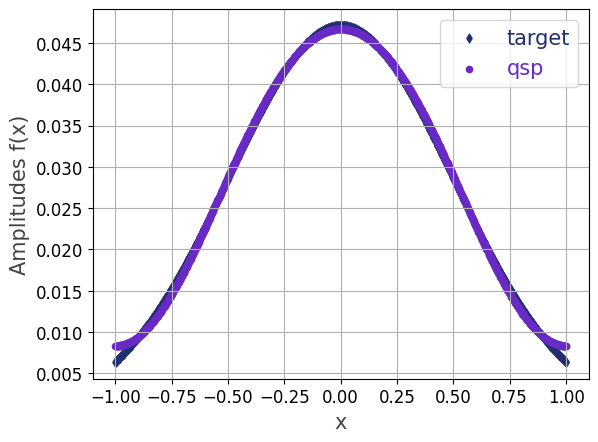
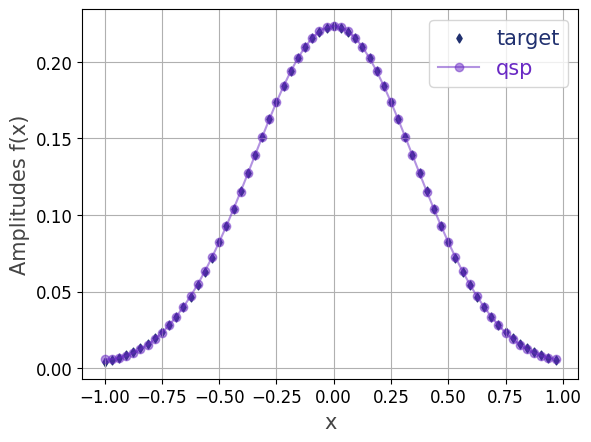
Improved example, test, documentation for fourier series loader

diff --git a/src/qrisp/algorithms/gqsp/fourier_series_loader.py b/src/qrisp/algorithms/gqsp/fourier_series_loader.py
@@ -81,8 +81,8 @@ def fourier_series_loader(qarg, signal=None, frequencies=None, k=1, mode="standa
     mode : str, optional
         Available are 
         
-        - ``"standard"``: frequencies are caluclated from ``target_array`` via FFT,
-        - ``"mirror"``: frequencies are caluclated from mirror padded ``target_array`` via FFT to mitigate artifacts at the boundaries.
+        - ``"standard"``: frequencies are caluclated from ``signal`` via FFT,
+        - ``"mirror"``: frequencies are caluclated from mirror padded ``signal`` via FFT to mitigate artifacts at the boundaries.
 
     Returns
     -------
@@ -97,26 +97,26 @@ def fourier_series_loader(qarg, signal=None, frequencies=None, k=1, mode="standa
 
     ::
 
+        import os
+        os.environ["QRISP_SIMULATOR_FLOAT_THRESH"] = "1e-10"
+
         import jax.numpy as jnp
         import matplotlib.pyplot as plt
         import numpy as np
         from qrisp import *
         from qrisp.gqsp import fourier_series_loader
 
-
         # Gaussian 
-        def f(x):
-            return jnp.exp(-2 * x ** 2)
-
+        def f(x, alpha):
+            return jnp.exp(-alpha * x ** 2)
 
         # Converts the function to be executed within a repeat-until-success (RUS) procedure.
-        @RUS(static_argnums=1)
-        def prepare_gaussian(n, k):
-
-            # Evaluate f at equidistant sample points
-            delta = 2.0 ** (-2 * k)
-            x_val = jnp.arange(-1, 1 ,delta)
-            y_val = f(x_val)
+        @RUS(static_argnames=["k"])
+        def prepare_gaussian(n, alpha, k):
+            # Use 32 sampling points to evaluate f
+            N_samples = 32
+            x_val = jnp.arange(-1.0, 1.0, 2.0 / N_samples)
+            y_val = f(x_val, alpha)
             y_val = y_val / jnp.linalg.norm(y_val)
 
             qv = QuantumFloat(n)
@@ -124,29 +124,31 @@ def fourier_series_loader(qarg, signal=None, frequencies=None, k=1, mode="standa
             success_bool = measure(qbl) == 0
             return success_bool, qv
 
-
         # The terminal_sampling decorator performs a hybrid simulation,
         # and afterwards samples from the resulting quantum state.
         @terminal_sampling
-        def main():
-            qv =  prepare_gaussian(10, 2)
+        def main(n, alpha):
+            qv =  prepare_gaussian(n, alpha, 3)
             return qv   
 
+        # Run the simulation for n-qubit state
+        n = 6
+        alpha = 4
+        res_dict = main(n, alpha)
 
         # Convert the resulting measurement probabilities to amplitudes by appling the square root.
-        res_dict = main()
         for k,v in res_dict.items():
             res_dict[k] = v ** 0.5 
-        y_val_sim = np.array([res_dict.get(key,0) for key in sorted(res_dict.keys())])
-        y_val_sim = y_val_sim/np.linalg.norm(y_val_sim)
+        y_val_sim = np.array([res_dict.get(key, 0) for key in range(2 ** n)])
+        y_val_sim = y_val_sim / np.linalg.norm(y_val_sim)
 
         # Compare to target values
-        x_val = np.linspace(-1, 1, len(y_val_sim))
-        y_val = f(x_val)
+        x_val = np.arange(-1, 1, 2 ** (-n + 1))
+        y_val = f(x_val, alpha)
         y_val = y_val / np.linalg.norm(y_val)
 
         plt.scatter(x_val, y_val, color='#20306f', marker="d", linestyle="solid", s=20, label="target")
-        plt.scatter(x_val, y_val_sim, color='#6929C4', marker="o", linestyle="solid", s=20, label="qsp")
+        plt.plot(x_val, y_val_sim, color='#6929C4', marker="o", linestyle="solid", alpha=0.5, label="qsp")
         plt.xlabel("x", fontsize=15, color="#444444")
         plt.ylabel("Amplitudes f(x)", fontsize=15, color="#444444")
         plt.legend(fontsize=15, labelcolor='linecolor')
@@ -164,12 +166,12 @@ def fourier_series_loader(qarg, signal=None, frequencies=None, k=1, mode="standa
     ::
 
         @count_ops(meas_behavior="0")
-        def main():
-            qv =  prepare_gaussian(10, 2)
+        def main(n, alpha):
+            qv =  prepare_gaussian(n, alpha, 3)
             return qv   
 
-        main()
-        # {'p': 120, 'z': 5, 'h': 10, 'cx': 80, 'u3': 5, 'gphase': 5, 'x': 4, 'measure': 1}
+        main(6, 4)
+        # {'h': 6, 'rz': 8, 'p': 108, 'x': 6, 'cx': 72, 'rx': 7, 'measure': 1}
 
     """
     
@@ -178,6 +180,7 @@ def fourier_series_loader(qarg, signal=None, frequencies=None, k=1, mode="standa
     if frequencies is not None:
         K = (len(frequencies) - 1) // 2 
         compressed_frequencies = frequencies[K-k : K+k+1]
+        scaling_factor = 1.0
     elif signal is not None:
         if mode=="standard":
             # Discrete Fourier transform

diff --git a/tests/algorithms_tests/qsp_tests/test_qsp_fourier_series_loader.py b/tests/algorithms_tests/qsp_tests/test_qsp_fourier_series_loader.py
@@ -18,21 +18,21 @@
 
 import jax.numpy as jnp
 import numpy as np
+import pytest
 from qrisp import *
 from qrisp.gqsp import fourier_series_loader
 
 # Gaussian 
-def f(x):
-    return jnp.exp(-2 * x ** 2)
+def f(x, alpha):
+    return jnp.exp(-alpha * x ** 2)
 
 # Converts the function to be executed within a repeat-until-success (RUS) procedure.
-@RUS(static_argnums=1)
-def preprare_gaussian(n, k):
-
-    # Evaluate f at equidistant sample points
-    delta = 2.0 ** (-2 * k)
-    x_val = jnp.arange(-1, 1 ,delta)
-    y_val = f(x_val)
+@RUS(static_argnames=["k"])
+def prepare_gaussian(n, alpha, k):
+    # Use 32 sampling points to evaluate f
+    N_samples = 32
+    x_val = jnp.arange(-1.0, 1.0, 2.0 / N_samples)
+    y_val = f(x_val, alpha)
     y_val = y_val / jnp.linalg.norm(y_val)
 
     qv = QuantumFloat(n)
@@ -43,22 +43,29 @@ def preprare_gaussian(n, k):
 # The terminal_sampling decorator performs a hybrid simulation,
 # and afterwards samples from the resulting quantum state.
 @terminal_sampling
-def main():
-    qv =  preprare_gaussian(10, 4)
+def main(n, alpha):
+    qv =  prepare_gaussian(n, alpha, 4)
     return qv   
 
-def test_qsp_gaussian():
+
+@pytest.mark.parametrize("n, alpha", [
+    (6, 4),
+    (6, 10),
+])
+def test_qsp_gaussian(n, alpha):
+
+    # Run the simulation for n-qubit state
+    res_dict = main(n, alpha)
 
     # Convert the resulting measurement probabilities to amplitudes by appling the square root.
-    res_dict = main()
     for k,v in res_dict.items():
         res_dict[k] = v ** 0.5 
-    y_val_sim = np.array([res_dict.get(key, 0) for key in sorted(res_dict.keys())])
+    y_val_sim = np.array([res_dict.get(key, 0) for key in range(2 ** n)])
     y_val_sim = y_val_sim / np.linalg.norm(y_val_sim)
 
     # Compare to target values
-    x_val = np.linspace(-1, 1, len(y_val_sim))
-    y_val = f(x_val)
+    x_val = np.arange(-1, 1, 2 ** (-n + 1))
+    y_val = f(x_val, alpha)
     y_val = y_val / np.linalg.norm(y_val)
 
     # Evaluate trace distance
